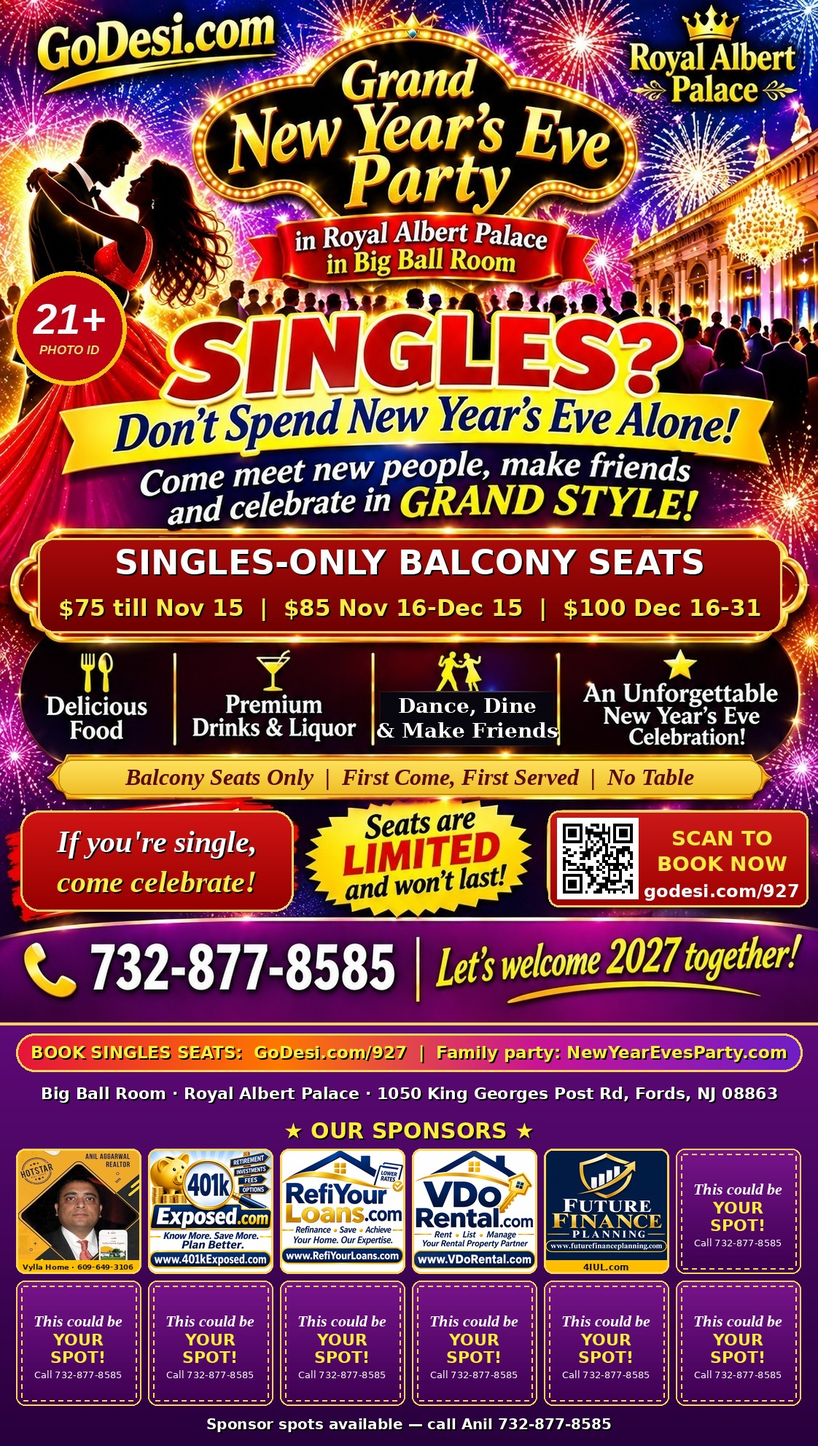
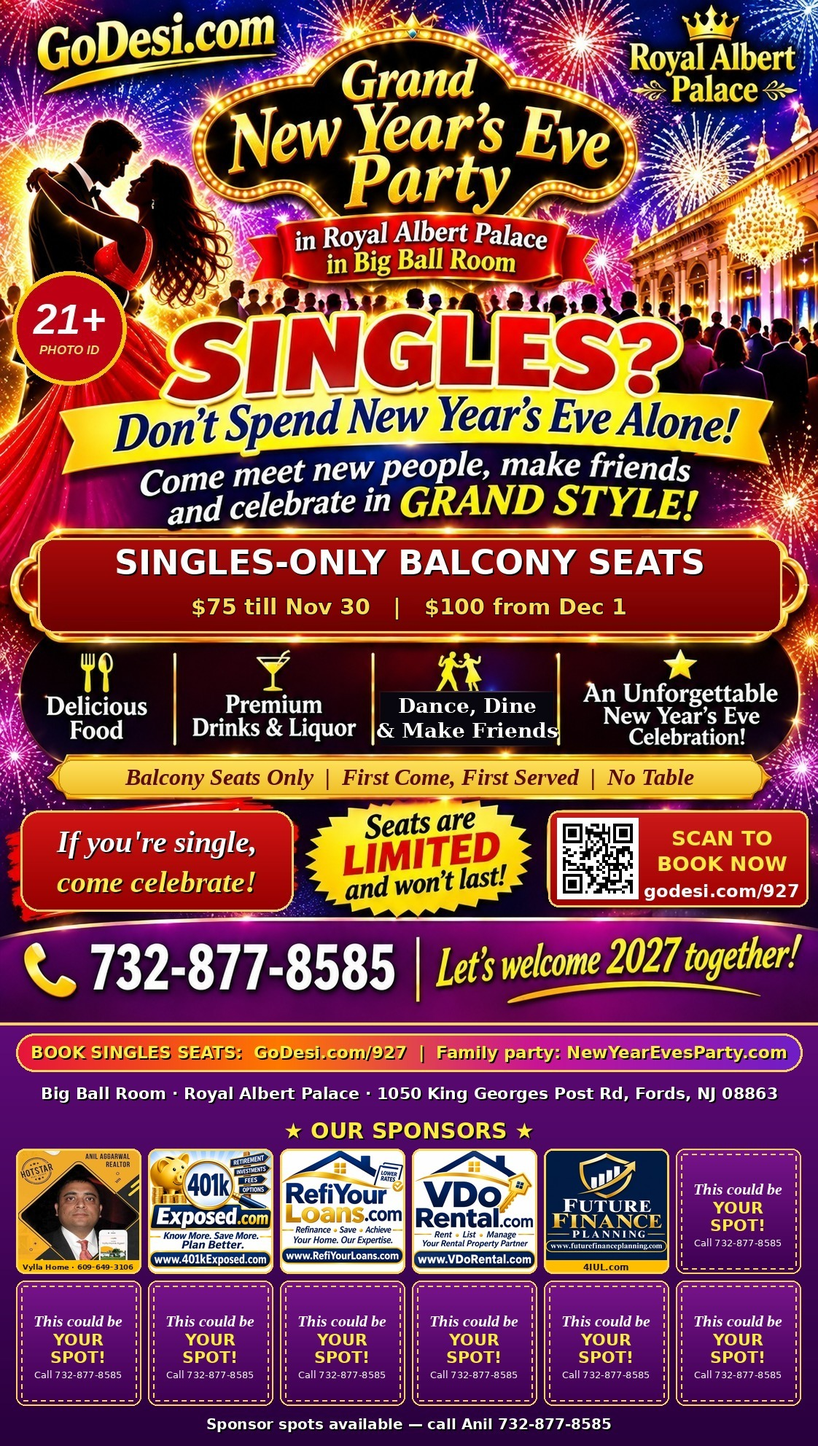
NYE 2027: balcony $75 till Nov 30, $100 from Dec 1 (main + singles events, both flyers); QR moved inside main flyer

Changed region(s): [[0.0624, 0.4062, 0.9358, 0.4375], [0.8111, 0.9062, 0.8422, 0.9688], [0.5615, 0.9062, 0.5927, 0.9375]]

diff --git a/scripts/update-nye-2027-edison.ts b/scripts/update-nye-2027-edison.ts
@@ -1,7 +1,7 @@
 /**
  * Brings the NYE 2027 Edison listing in line with the organiser's flyer: 8 PM start,
- * flyer image, early (till Nov 30) / late (from Dec 1) ticket prices plus the $75 balcony
- * chairs, and guest reviews typed out from the WhatsApp review album (first names only).
+ * flyer image, early (till Nov 30) / late (from Dec 1) ticket prices plus the balcony
+ * chairs ($75 till Nov 30, $100 from Dec 1), and guest reviews typed out from the WhatsApp review album (first names only).
  * Safe to re-run: tiers are matched by name, reviews are replaced. Ticket tiers no longer in
  * TIERS are deleted when unsold (checkouts older than Stripe's 24h expiry just lose their tier),
  * or closed for sale when someone paid for one or may still be paying.
@@ -26,7 +26,7 @@ const DESCRIPTION = [
   "Grand New Year's Eve Party 2027 in the Big Ball Room at Royal Albert Palace — Thursday, December 31st, 2026, 8:00 PM to 1:00 AM. Hosted by NewYearEvesParty.com, celebrating since 2018.",
   "35 food items and an elegant seated dining experience, with an exclusive Plaza Hall of live food stations — dosa, jalebi, golgappa and more. Premium drinks until midnight and a midnight champagne toast.",
   "Live DJ Sandy of M&D Events, a live belly dance performance, the New York ball drop on live TV, multiple photo booths and exciting raffle prizes. Woodbridge Police security and free valet parking.",
-  "Till Nov 30: Couple $180, Adult (18+) $95, Big Kid (9–17) $80, Small Kid (0–8) $65. From Dec 1: Couple $250, Adult (18+) $150, Big Kid (9–17) $90, Small Kid (0–8) $75. VIP Table for 12 with a bottle of champagne on the table (only 5 tables): $1080 till Nov 30, $1200 from Dec 1. Balcony $75 — adults, chair only, all inclusive, limited seats, first come, first served, no table seating.",
+  "Till Nov 30: Couple $180, Adult (18+) $95, Big Kid (9–17) $80, Small Kid (0–8) $65. From Dec 1: Couple $250, Adult (18+) $150, Big Kid (9–17) $90, Small Kid (0–8) $75. VIP Table for 12 with a bottle of champagne on the table (only 5 tables): $1080 till Nov 30, $1200 from Dec 1. Balcony $75 till Nov 30, $100 from Dec 1 — adults, chair only, all inclusive, limited seats, first come, first served, no table seating.",
   "Call for tickets & info: Rachna 908-421-1685 · Anil 732-983-7958 · Ashok 732-921-5606. Book online at NewYearEvesParty.com or GoDesi.com/9227.",
   "Sponsors welcome: Silver $1,000, Gold $2,500 and Platinum $5,000 packages, plus single add-ons — GoDesi.com/sponsor2027.",
 ].join("\n\n");
@@ -34,7 +34,7 @@ const DESCRIPTION = [
 /**
  * The hall holds 400 people, so entry tiers add up to 400, counting a couple as 2:
  * early 40×2 + 120 + 25 + 25 = 250, Balcony 50, late 10×2 + 60 + 10 + 10 = 100.
- * Balcony sells in both windows.
+ * Balcony's early and late tiers share their 50 seats (stockGroup "balcony").
  * `match` lists old names of the same ticket so bookings are kept when a tier is relabelled.
  * Sponsor packages are listed separately; the 2-pass ones add up to 18 more people.
  */
@@ -75,12 +75,13 @@ const TIERS: TierSpec[] = [
   { name: "Big Kid (9–17) — Early", match: ["Kids (9–17) — Early"], note: "Till Nov 30", price: 80, seats: 25, salesEnd: EARLY_END },
   { name: "Small Kid (0–8) — Early", match: ["Kids (0–8) — Early"], note: "Till Nov 30", price: 65, seats: 25, salesEnd: EARLY_END },
   { name: "VIP Table for 12 with champagne — Early", note: "Till Nov 30 · 12 seats at a reserved VIP table, bottle of champagne on the table · only 5 tables", price: 1080, seats: 5, salesEnd: EARLY_END, admits: 12, stockGroup: "vip-table" },
-  { name: "Balcony — first come, first served, no table seating", match: ["Singles — Balcony (chair only, all inclusive)", "Balcony seat — first come, first served", "Special balcony seat"], note: BALCONY_NOTE, price: 75, seats: 50 },
+  { name: "Balcony — Early · first come, first served, no table seating", match: ["Balcony — first come, first served, no table seating", "Singles — Balcony (chair only, all inclusive)", "Balcony seat — first come, first served", "Special balcony seat"], note: `Till Nov 30 · ${BALCONY_NOTE}`, price: 75, seats: 50, salesEnd: EARLY_END, stockGroup: "balcony" },
   { name: "Couple", match: ["Couple"], note: "Admits 2", price: 250, seats: 10, salesStart: LATE_START, admits: 2 },
   { name: "Adult (18+)", match: ["Adults (18+)"], price: 150, seats: 60, salesStart: LATE_START },
   { name: "Big Kid (9–17)", match: ["Kids (9–17)"], price: 90, seats: 10, salesStart: LATE_START },
   { name: "Small Kid (0–8)", match: ["Kids (0–8)"], price: 75, seats: 10, salesStart: LATE_START },
   { name: "VIP Table for 12 with champagne", note: "12 seats at a reserved VIP table, bottle of champagne on the table · only 5 tables", price: 1200, seats: 5, salesStart: LATE_START, admits: 12, stockGroup: "vip-table" },
+  { name: "Balcony — first come, first served, no table seating", note: BALCONY_NOTE, price: 100, seats: 50, salesStart: LATE_START, stockGroup: "balcony" },
   { kind: "SPONSOR", ...nyeSponsorLevel("Silver sponsor"), seats: 10, admits: 2, bannerMonths: 12, bannerSlot: "MOBILE", wallBricks: 25 },
   { kind: "SPONSOR", ...nyeSponsorLevel("Gold sponsor"), seats: 5, admits: 4, bannerMonths: 12, bannerSlot: "SIDEBAR", wallBricks: 75 },
   { kind: "SPONSOR", ...nyeSponsorLevel("Platinum sponsor"), seats: 2, admits: 10, bannerMonths: 12, bannerSlot: "HALFPAGE", wallBricks: 200 },
@@ -120,10 +121,14 @@ async function main() {
   if (!event) throw new Error(`No event ${SLUG}`);
 
   const used = new Set<string>();
+  /** A tier whose name is still in TIERS belongs to that spec, never to another spec's `match`. */
+  const specNames = new Set(TIERS.map((spec) => spec.name));
   for (let index = 0; index < TIERS.length; index += 1) {
     const spec = TIERS[index];
-    const names = [spec.name, ...(spec.match ?? [])];
-    const existing = event.tiers.find((tier) => !used.has(tier.id) && names.includes(tier.name));
+    const free = event.tiers.filter((tier) => !used.has(tier.id));
+    const existing =
+      free.find((tier) => tier.name === spec.name) ??
+      free.find((tier) => !specNames.has(tier.name) && spec.match?.includes(tier.name));
     if (existing) used.add(existing.id);
     const data = {
       name: spec.name,

diff --git a/scripts/create-nye-2027-singles.ts b/scripts/create-nye-2027-singles.ts
@@ -2,7 +2,8 @@
  * Creates (or refreshes) the "Singles" listing for NYE 2027: the same night and hall as
  * the main party, but its own page and its own 50 first-come-first-served balcony seats
  * (no tables), sold only to members 21+ with a Connect profile marked Single (see
- * lib/singles). One flat $75 tier, chair only and all inclusive. The main event keeps its
+ * lib/singles). $75 till Nov 30, $100 from Dec 1, chair only and all inclusive;
+ * both price windows share the 50 seats. The main event keeps its
  * separate 50 balcony seats, so the balcony holds 100 in total.
  * Safe to re-run: the event is matched by slug (old slugs are renamed) and tiers by name;
  * old price-window tiers are deleted when unsold, or closed for sale when someone bought one.
@@ -18,6 +19,9 @@ const SLUG = "singles-new-years-eve-party-2027-nj";
 const OLD_SLUGS = ["singles-mingle-new-years-eve-party-2027-nj"];
 const FLYER = "https://godesi.com/flyers/nye-2027-grand-party.jpg";
 const SEATS = 50;
+/** New York time; salesEnd is exclusive, so early tickets sell through Nov 30. */
+const LATE_START = new Date("2026-12-01T00:00:00-05:00");
+const EARLY_END = LATE_START;
 const NOTE = "21+ · Limited seats · first come, first served · no table · singles band included";
 
 const TIERS: { name: string; match?: string[]; price: number; salesStart?: Date; salesEnd?: Date }[] = [
@@ -25,7 +29,9 @@ const TIERS: { name: string; match?: string[]; price: number; salesStart?: Date;
     name: "Singles — balcony chair, all inclusive",
     match: ["Singles balcony seat — Early bird", "Singles balcony seat"],
     price: 75,
+    salesEnd: EARLY_END,
   },
+  { name: "Singles — balcony chair, all inclusive (from Dec 1)", price: 100, salesStart: LATE_START },
 ];
 
 const TITLE = "Singles New Year's Eve Party 2027 in NJ (21+)";
@@ -35,7 +41,7 @@ const DESCRIPTION = [
   "Singles get their own balcony in the Big Ball Room: chairs only, no tables and no assigned seats — limited seats, first come, first served. Every singles guest gets a special singles band.",
   "It's all inclusive — everything the main party has: 35 food items with live stations in the Plaza Hall (dosa, jalebi, golgappa and more), premium drinks until midnight, a midnight champagne toast, live DJ Sandy of M&D Events, a live belly dance performance and the New York ball drop on live TV. Free valet parking. Meet new people, make friends and welcome 2027 together.",
   "This is a 21+ party because liquor is served: bring a photo ID, which is checked at the door when you pick up your singles band.",
-  "Tickets: only $75, all inclusive. Only 50 singles seats. To keep it singles-only, you need a free GoDesi Connect profile marked Single, with your age (21 or older), before you buy — create it in a minute and come straight back to book. Short link: godesi.com/927",
+  "Tickets: $75 till Nov 30, $100 from Dec 1, all inclusive. Only 50 singles seats. To keep it singles-only, you need a free GoDesi Connect profile marked Single, with your age (21 or older), before you buy — create it in a minute and come straight back to book. Short link: godesi.com/927",
   "Questions or group bookings: Rachna 908-421-1685 · Anil 732-983-7958 · Ashok 732-921-5606.",
 ].join("\n\n");
 
@@ -90,10 +96,14 @@ async function main() {
     : await db.event.create({ data: { ...data, seatsTotal: SEATS } });
 
   const used = new Set<string>();
+  /** A tier whose name is still in TIERS belongs to that spec, never to another spec's `match`. */
+  const specNames = new Set(TIERS.map((spec) => spec.name));
   for (let index = 0; index < TIERS.length; index += 1) {
     const spec = TIERS[index];
-    const names = [spec.name, ...(spec.match ?? [])];
-    const tier = existing?.tiers.find((row) => !used.has(row.id) && names.includes(row.name));
+    const free = existing?.tiers.filter((row) => !used.has(row.id)) ?? [];
+    const tier =
+      free.find((row) => row.name === spec.name) ??
+      free.find((row) => !specNames.has(row.name) && spec.match?.includes(row.name));
     const tierData = {
       name: spec.name,
       note: NOTE,
@@ -104,6 +114,7 @@ async function main() {
       salesEnd: spec.salesEnd ?? null,
       kind: "TICKET",
       admits: 1,
+      stockGroup: "singles-balcony",
     };
     if (tier) {
       used.add(tier.id);

diff --git a/scripts/nye-2027-to-newyearevesparty.ts b/scripts/nye-2027-to-newyearevesparty.ts
@@ -19,7 +19,7 @@ const SUMMARY = [
   "NewYearEvesParty.com is hosting the Grand New Year's Eve Party 2027 on Thursday, December 31st, 2026, 8:00 PM to 1:00 AM, in the Big Ball Room at Royal Albert Palace, 1050 King Georges Post Rd, Fords NJ 08863 (near Edison).",
   "It's a family party: 35 food items, an elegant seated dining experience, an exclusive Plaza Hall with live food stations (dosa, jalebi, golgappa and more), premium drinks until midnight, a midnight champagne toast, live DJ Sandy of M&D Events, a live belly dance performance, the New York ball drop on live TV, multiple photo booths, exciting raffle prizes, Woodbridge Police security and free valet parking.",
   "Till Nov 30: Adults (18+) $95, Kids (9–17) $80, Kids (0–8) $65, Couple $180. From Dec 1: Adults $150, Kids (9–17) $90, Kids (0–8) $75, Couple $250. Book at NewYearEvesParty.com or godesi.com/9227.",
-  "Singles get their own first-come-first-served balcony — chair only, no table, all inclusive — for only $75. Limited seats; singles seats on GoDesi are 21+ with photo ID checked at the door. Book at godesi.com/927.",
+  "Singles get their own first-come-first-served balcony — chair only, no table, all inclusive — $75 till Nov 30, $100 from Dec 1. Limited seats; singles seats on GoDesi are 21+ with photo ID checked at the door. Book at godesi.com/927.",
   "Call for tickets & info: Rachna 908-421-1685 · Anil 732-983-7958 · Ashok 732-921-5606. Sponsors: godesi.com/sponsor2027.",
 ].join("\n\n");
 
